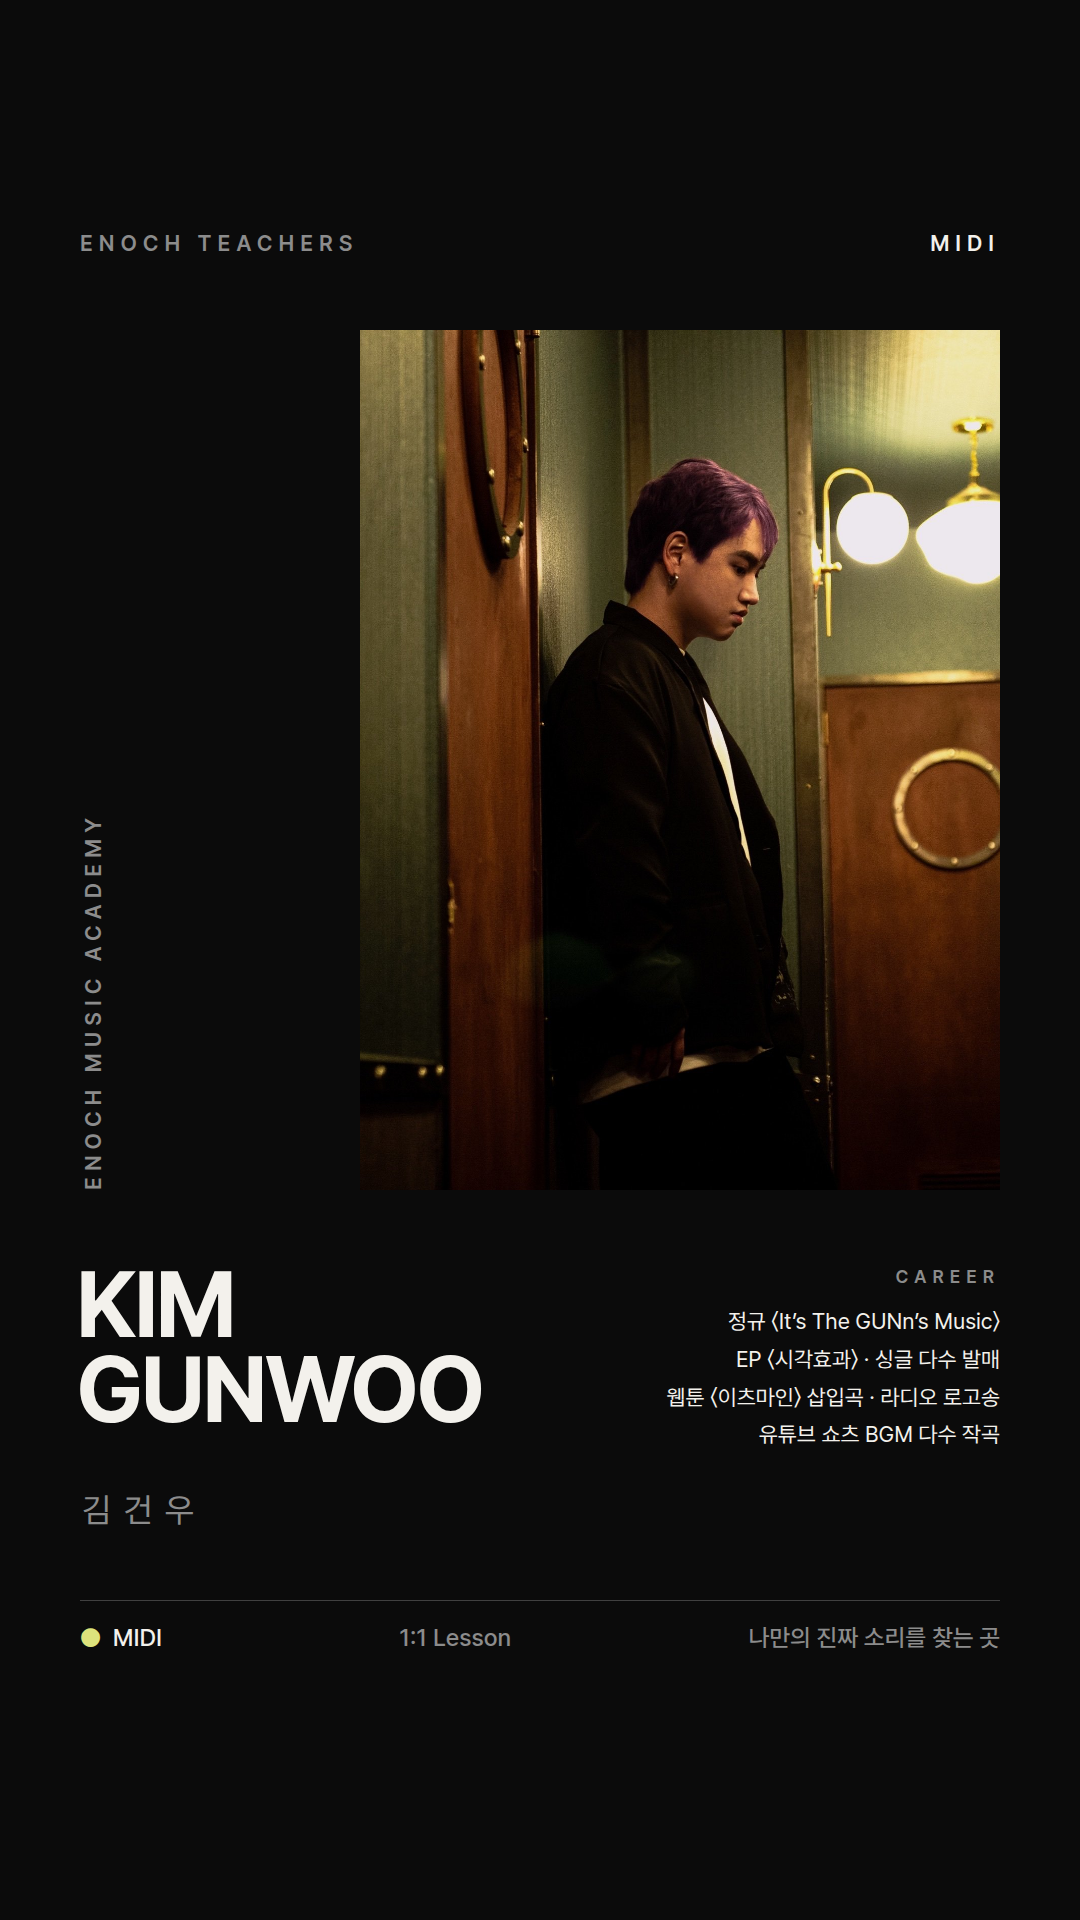
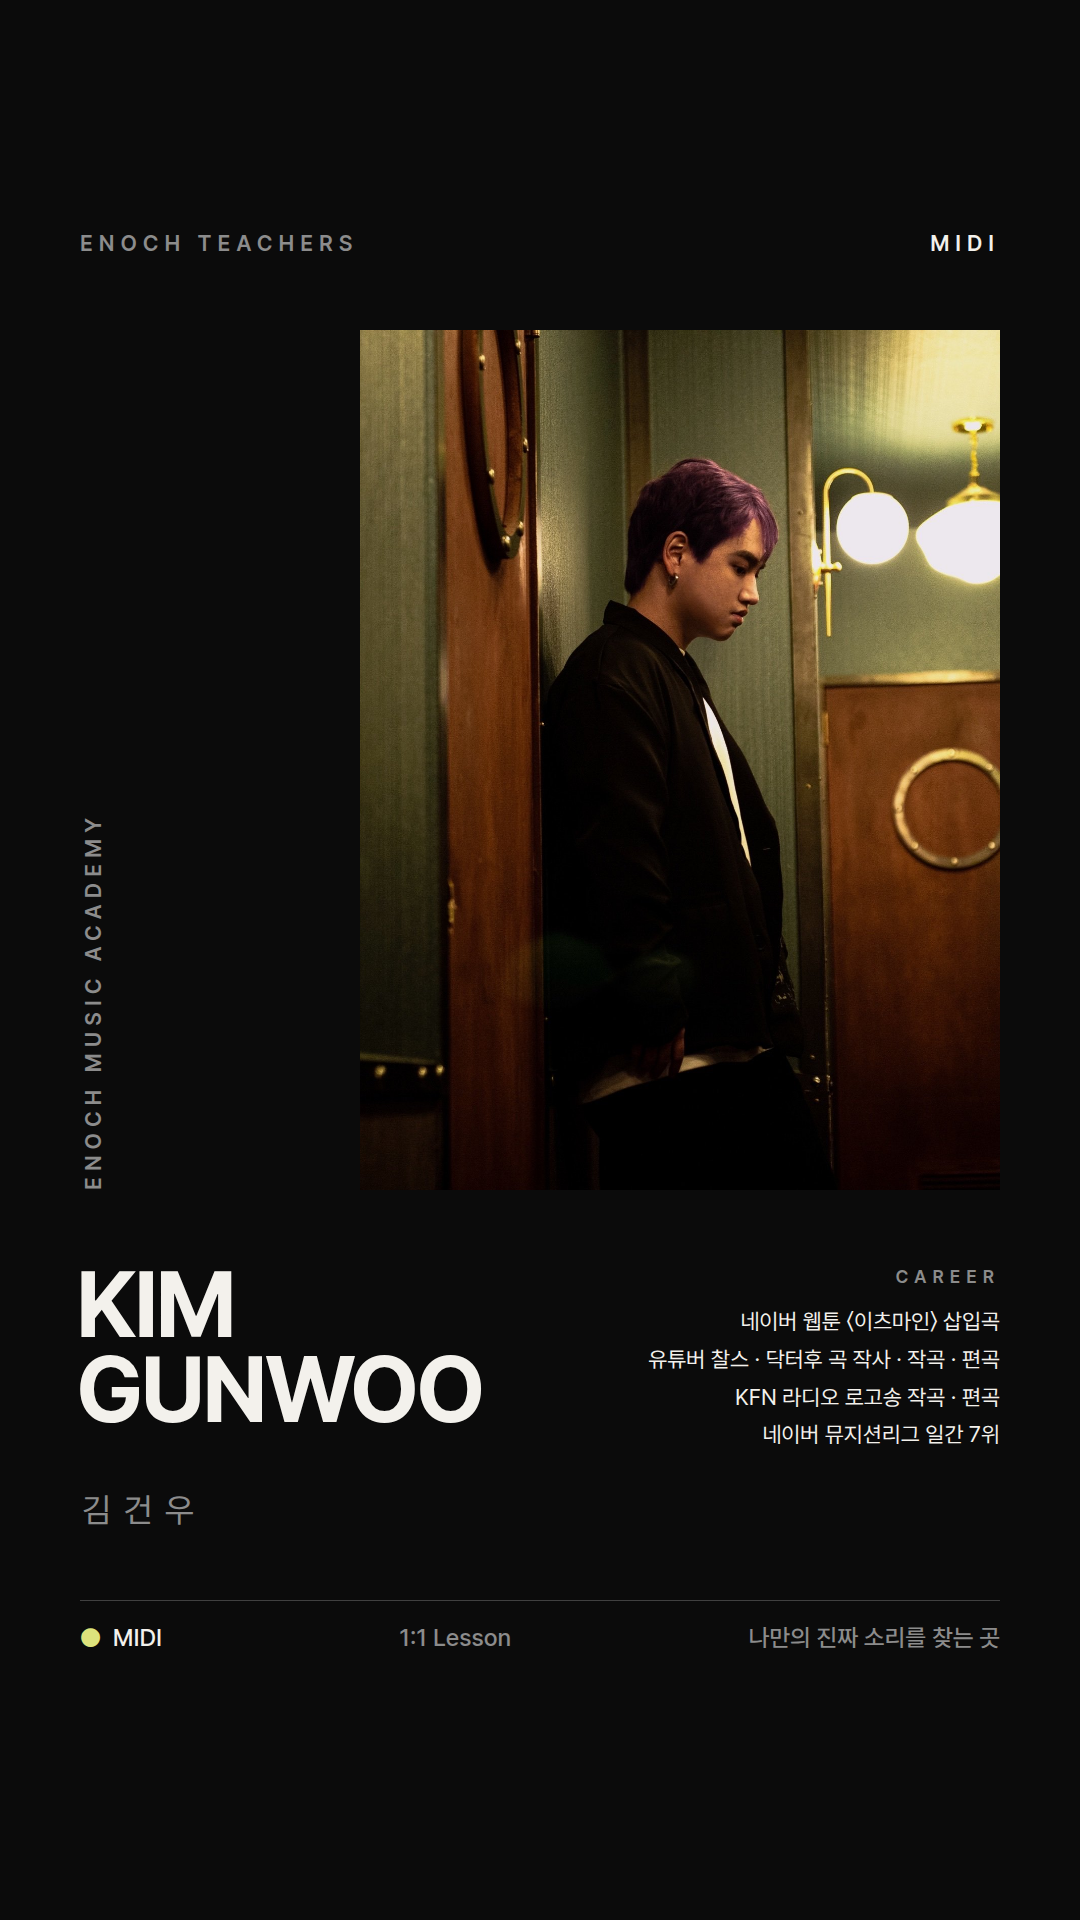
강사 소개 김건우: 스토리 CAREER를 인지도 높은 이력 위주로 교체
Claude-Session: https://claude.ai/code/session_01HGbZvgMeYrbU7mY8bwfjyb

Changed region(s): [[0.6111, 0.6875, 0.9472, 0.75]]

diff --git a/output/강사소개_김건우/story.html b/output/강사소개_김건우/story.html
@@ -40,6 +40,6 @@
   <div class="ph"></div>
   <div class="en">KIM<br>GUNWOO</div>
   <div class="ko g">김건우</div>
-  <div class="cv"><span class="lab g">CAREER</span>정규 〈It’s The GUNn’s Music〉<br>EP 〈시각효과〉 · 싱글 다수 발매<br>웹툰 〈이츠마인〉 삽입곡 · 라디오 로고송<br>유튜브 쇼츠 BGM 다수 작곡</div>
+  <div class="cv"><span class="lab g">CAREER</span>네이버 웹툰 〈이츠마인〉 삽입곡<br>유튜버 찰스 · 닥터후 곡 작사 · 작곡 · 편곡<br>KFN 라디오 로고송 작곡 · 편곡<br>네이버 뮤지션리그 일간 7위</div>
   <div class="bt"><span><span class="lime">●</span>&nbsp; MIDI</span><span class="g">1:1 Lesson</span><span class="g">나만의 진짜 소리를 찾는 곳</span></div>
 </section></body></html>
